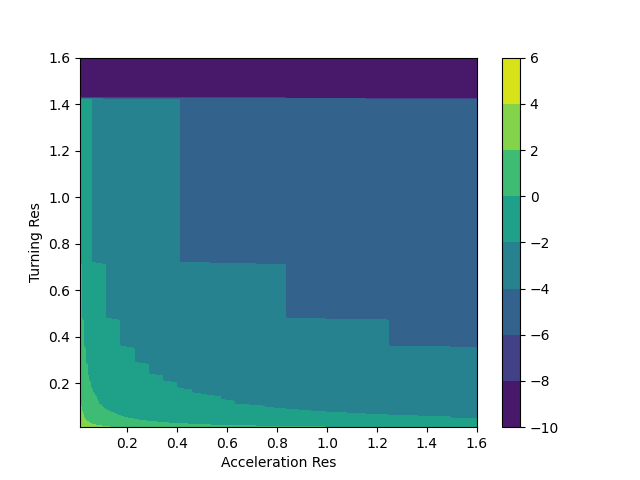
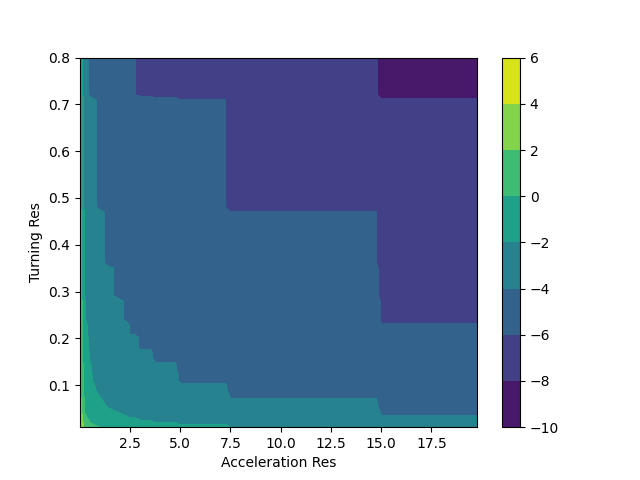
change max values of turning res to pi/4 and acc res to 20

diff --git a/src/qlearning/sampling.py b/src/qlearning/sampling.py
@@ -8,8 +8,8 @@ acceleration_power = 1  # m/s^2
 braking_power = 1  # -m/s^2
 max_turning_rate = 0.5181  # rad/s
 
-#potential range of ACC-RES: 0.01 to 5.00
-#potential range of TURNING-RES: 0.01 to 100.0
+#potential range of ACC-RES: 0.01 to 1.60
+#potential range of TURNING-RES: 0.01 to 1.60
 
 #plot in 2d matrix with arrays of acc and turning
 #acc_res, turning_res, density of states that combo results in
@@ -42,8 +42,8 @@ total_samples = get_possible_states(curr1, differentials, high_res)
 total_samples_size = len(total_samples)
 #print(total_samples_size)
 
-acc_res_size = 160
-turn_res_size = 160
+acc_res_size = 80
+turn_res_size = 80
 
 densities = np.zeros((acc_res_size, turn_res_size))
 acc_res = np.zeros(acc_res_size)
@@ -64,7 +64,7 @@ for i in range(turn_res_size): #primary nested loop responsible for density comp
     #print(sample_density)
     densities[i, j] = sample_density
 
-    varj+=0.01
+    varj+=0.25
   varj=0.01
   vari+=0.01
 
